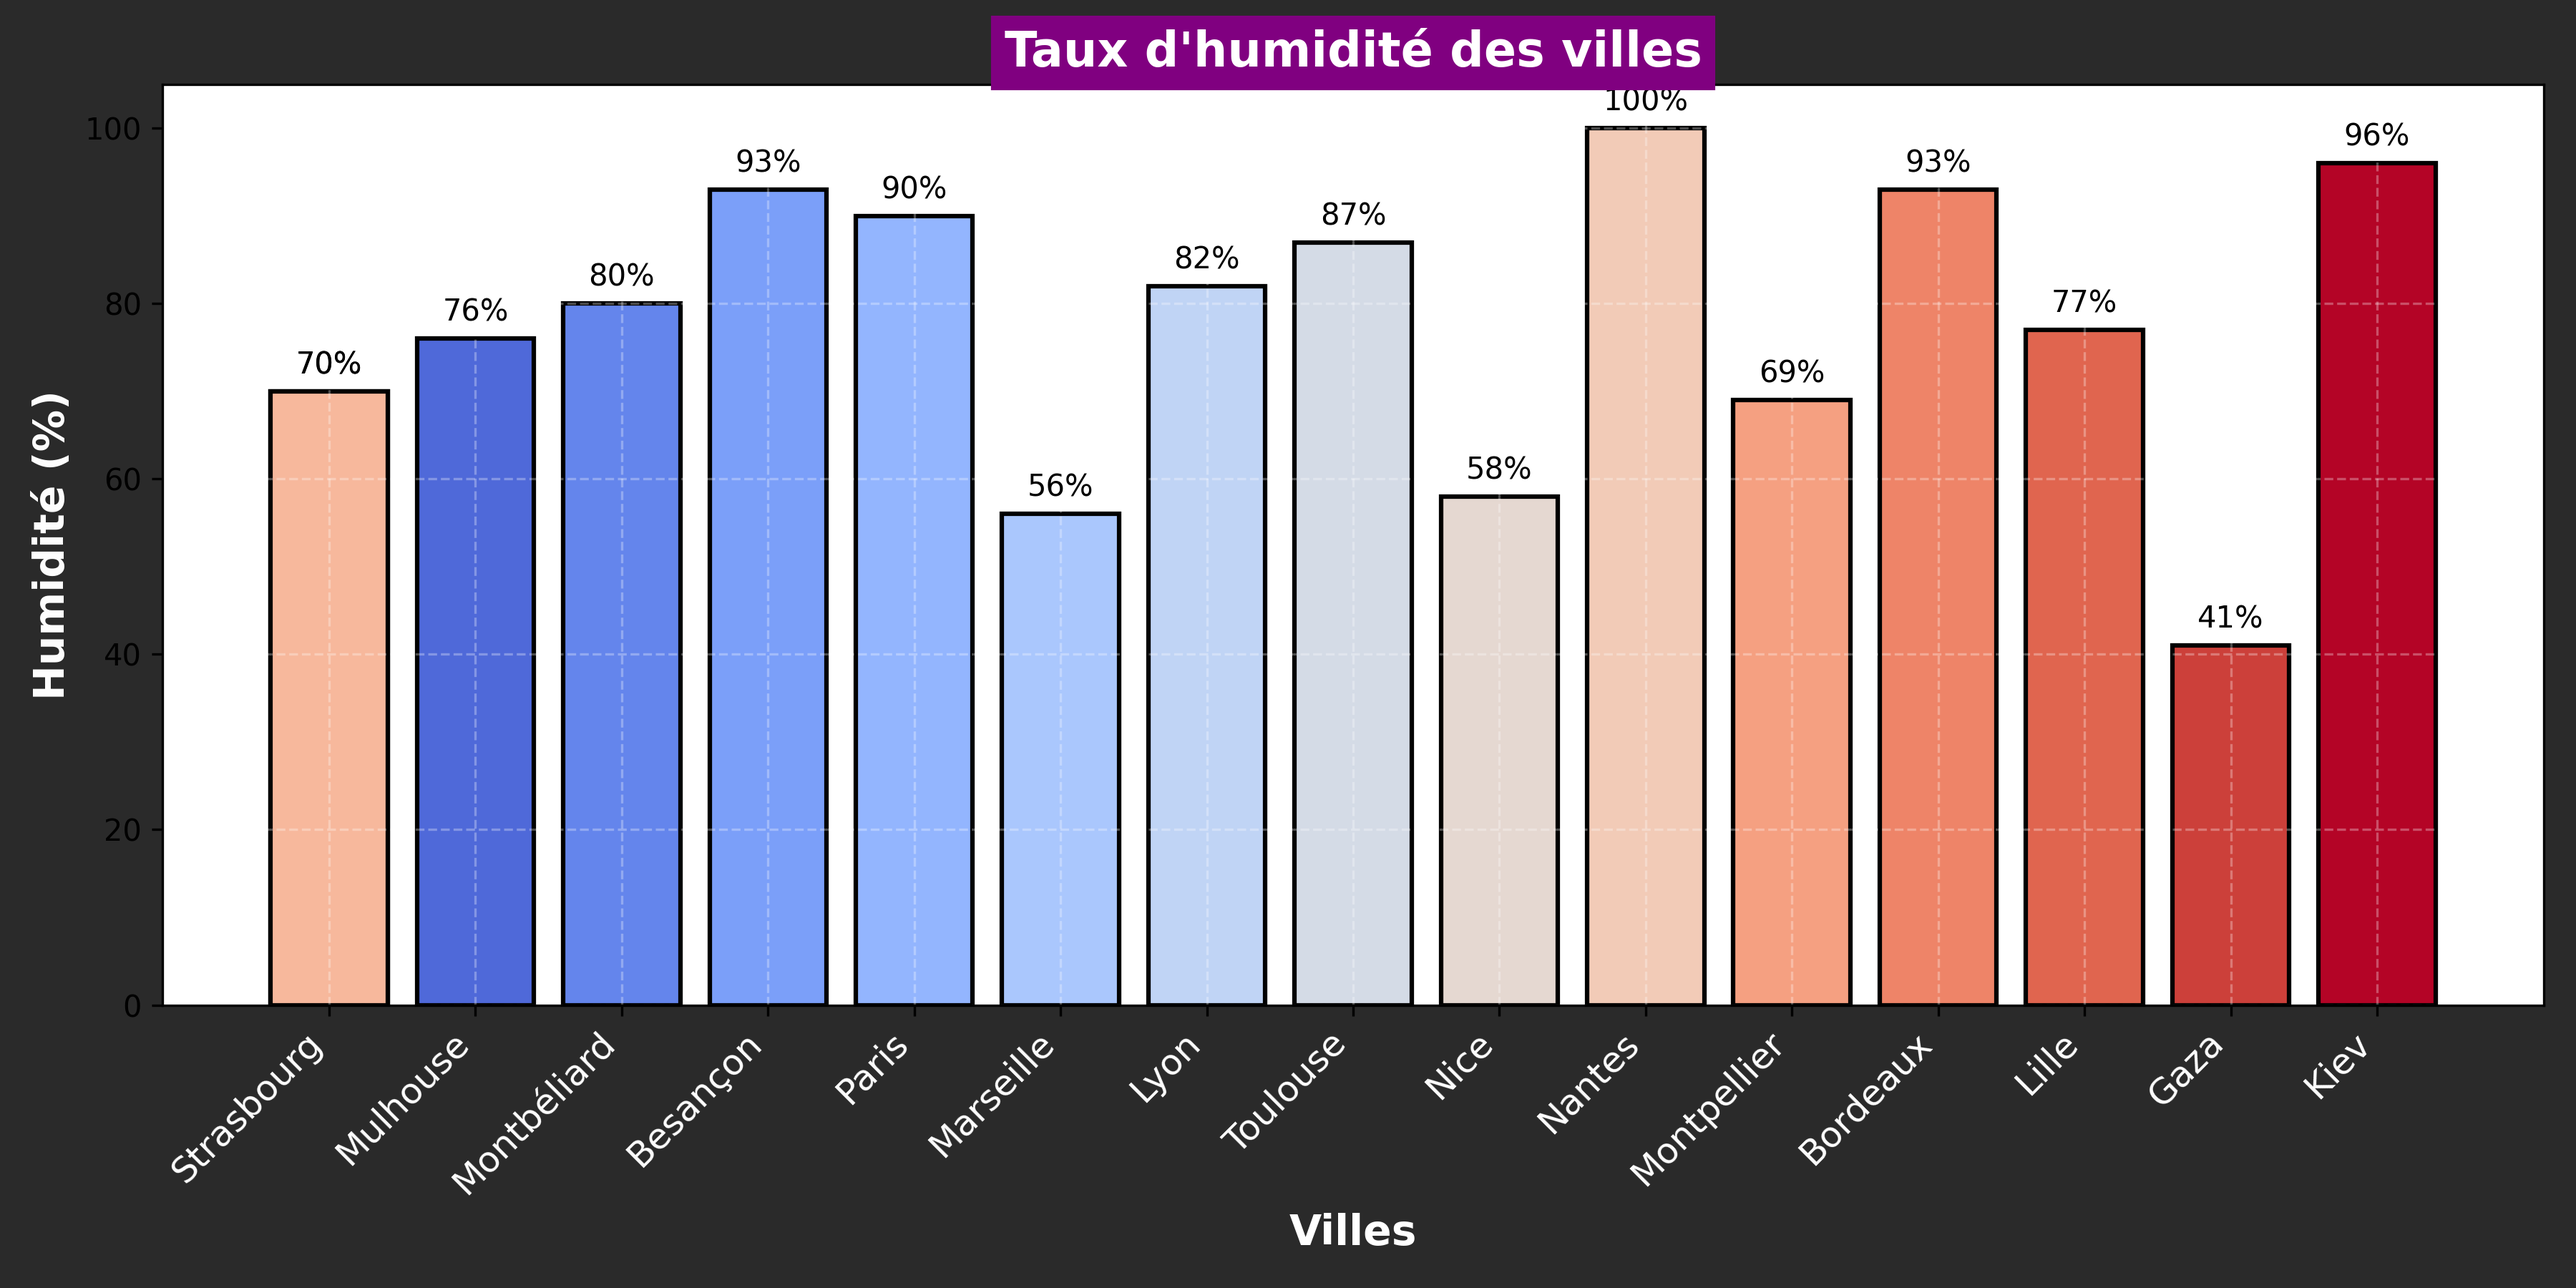
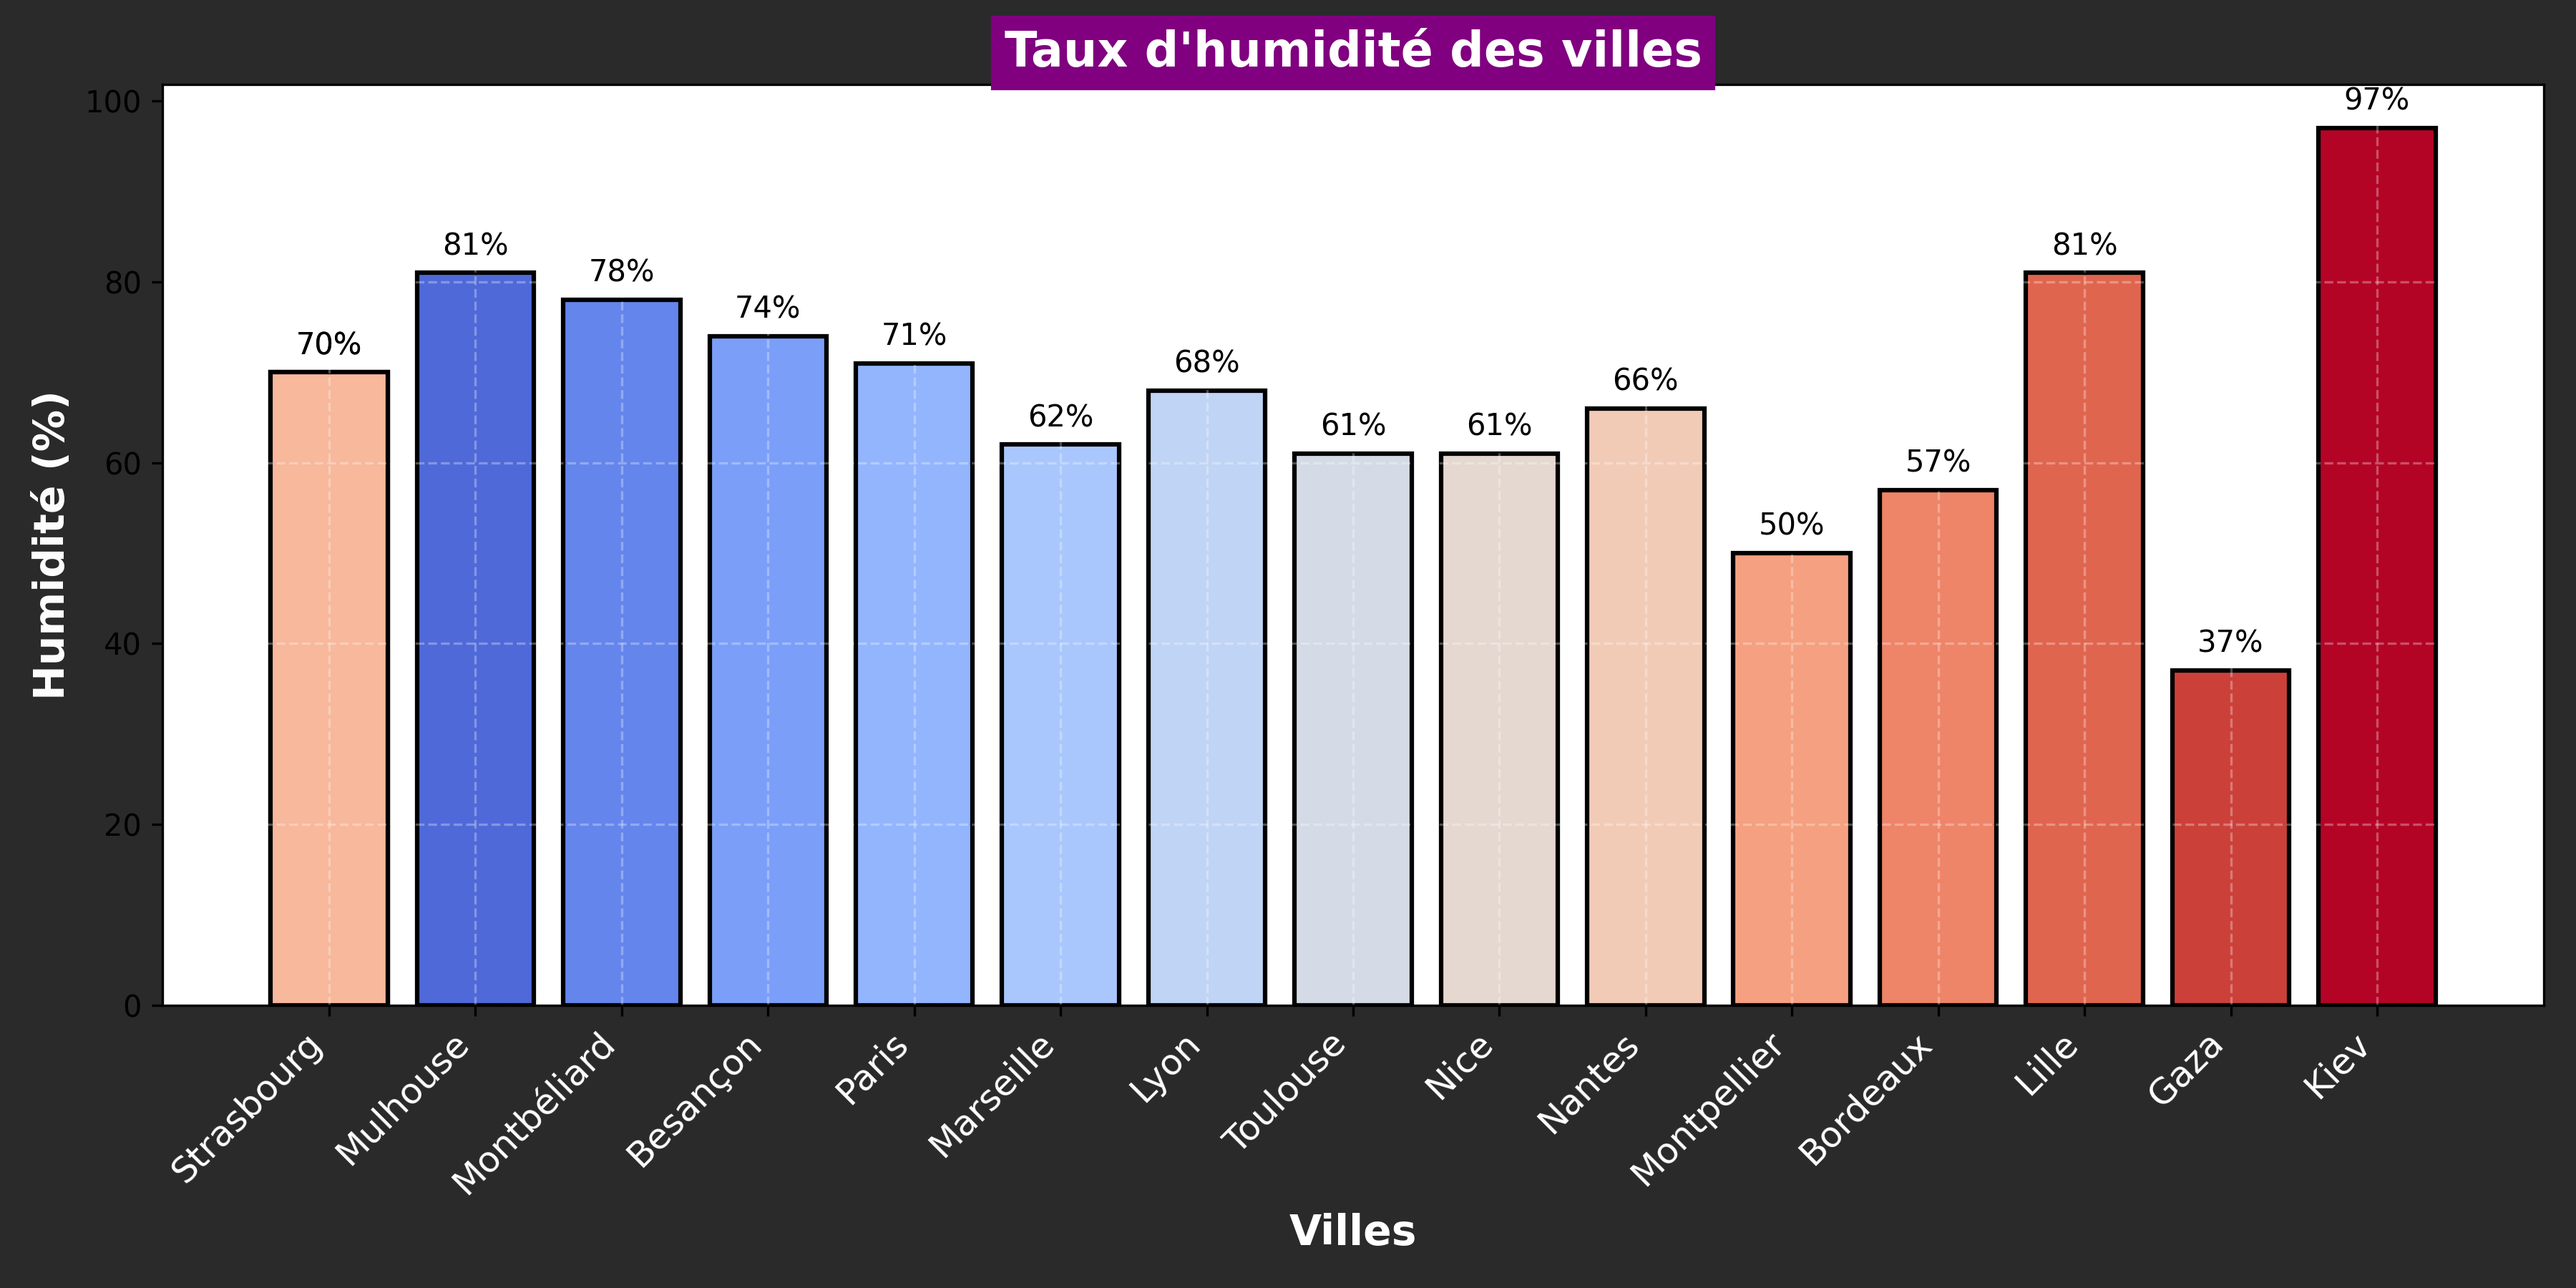
Mise à jour de la météo et ajout du graphique d'humidité

diff --git a/README.md b/README.md
@@ -24,102 +24,102 @@ Ce repo contient plusieurs workflows GitHub Actions :
 ## Météo actuelle :
 ## Météo des grandes villes + Gaza et Kiev 🌍
 
-🕒 Mise à jour : 31/03/2025 08:17:31
+🕒 Mise à jour : 01/04/2025 08:17:33
 
-### 🌍 Strasbourg 🌥
-**Conditions :** nuageux
-**Température :** 7.03°C
+### 🌍 Strasbourg ☀
+**Conditions :** ciel dégagé
+**Température :** 6°C
 **Humidité :** 70%
 **Vent :** 5.14 m/s
 
 ### 🌍 Mulhouse ☀
 **Conditions :** ciel dégagé
-**Température :** 7.03°C
-**Humidité :** 76%
-**Vent :** 3.6 m/s
+**Température :** 2.57°C
+**Humidité :** 81%
+**Vent :** 1.82 m/s
 
 ### 🌍 Montbéliard ☀
 **Conditions :** ciel dégagé
-**Température :** 6.8°C
-**Humidité :** 80%
-**Vent :** 1.24 m/s
+**Température :** 5.54°C
+**Humidité :** 78%
+**Vent :** 4.48 m/s
 
-### 🌍 Besançon 🌥
-**Conditions :** peu nuageux
-**Température :** 2.96°C
-**Humidité :** 93%
-**Vent :** 0.98 m/s
+### 🌍 Besançon ☀
+**Conditions :** ciel dégagé
+**Température :** 4.07°C
+**Humidité :** 74%
+**Vent :** 5.74 m/s
 
 ### 🌍 Paris ☀
 **Conditions :** ciel dégagé
-**Température :** 6.14°C
-**Humidité :** 90%
-**Vent :** 3.09 m/s
+**Température :** 6.52°C
+**Humidité :** 71%
+**Vent :** 5.66 m/s
 
 ### 🌍 Marseille ☀
 **Conditions :** ciel dégagé
-**Température :** 11.4°C
-**Humidité :** 56%
-**Vent :** 1.79 m/s
+**Température :** 7.51°C
+**Humidité :** 62%
+**Vent :** 2.33 m/s
 
-### 🌍 Lyon 🌥
-**Conditions :** nuageux
-**Température :** 6.6°C
-**Humidité :** 82%
-**Vent :** 1.34 m/s
+### 🌍 Lyon ☀
+**Conditions :** ciel dégagé
+**Température :** 2.89°C
+**Humidité :** 68%
+**Vent :** 1.09 m/s
 
 ### 🌍 Toulouse ☀
 **Conditions :** ciel dégagé
 **Température :** 6.99°C
-**Humidité :** 87%
-**Vent :** 1.03 m/s
-
-### 🌍 Nice ☀
-**Conditions :** ciel dégagé
-**Température :** 8.61°C
-**Humidité :** 58%
-**Vent :** 3.83 m/s
-
-### 🌍 Nantes 🌫
-**Conditions :** brouillard
-**Température :** 6.96°C
-**Humidité :** 100%
+**Humidité :** 61%
 **Vent :** 1.54 m/s
 
-### 🌍 Strasbourg 🌥
-**Conditions :** nuageux
-**Température :** 7.03°C
+### 🌍 Nice 🌥
+**Conditions :** légères chutes de neige
+**Température :** 0.28°C
+**Humidité :** 61%
+**Vent :** 0.9 m/s
+
+### 🌍 Nantes ☀
+**Conditions :** ciel dégagé
+**Température :** 7.96°C
+**Humidité :** 66%
+**Vent :** 3.6 m/s
+
+### 🌍 Strasbourg ☀
+**Conditions :** ciel dégagé
+**Température :** 6°C
 **Humidité :** 70%
 **Vent :** 5.14 m/s
 
 ### 🌍 Montpellier ☀
 **Conditions :** ciel dégagé
 **Température :** 10.28°C
-**Humidité :** 69%
-**Vent :** 4.63 m/s
+**Humidité :** 50%
+**Vent :** 5.66 m/s
 
-### 🌍 Bordeaux 🌥
-**Conditions :** couvert
-**Température :** 10.15°C
-**Humidité :** 93%
-**Vent :** 2.06 m/s
+### 🌍 Bordeaux ☀
+**Conditions :** ciel dégagé
+**Température :** 9.15°C
+**Humidité :** 57%
+**Vent :** 5.66 m/s
 
-### 🌍 Lille 🌥
-**Conditions :** couvert
-**Température :** 6.6°C
-**Humidité :** 77%
-**Vent :** 1.54 m/s
+### 🌍 Lille ☀
+**Conditions :** ciel dégagé
+**Température :** 3.74°C
+**Humidité :** 81%
+**Vent :** 4.12 m/s
 
 ### 🌍 Gaza 🌥
-**Conditions :** peu nuageux
-**Température :** 21.03°C
-**Humidité :** 41%
-**Vent :** 7.02 m/s
+**Conditions :** nuageux
+**Température :** 25.52°C
+**Humidité :** 37%
+**Vent :** 5.34 m/s
 
 ### 🌍 Kiev 🌥
 **Conditions :** couvert
-**Température :** 9.29°C
-**Humidité :** 96%
+**Température :** 9.84°C
+**Humidité :** 97%
 **Vent :** 0.45 m/s
 
 <p align='center'><img src='https://raw.githubusercontent.com/khoa083/khoa/main/Khoa_ne/img/Rainbow.gif' width='100%' style='border-radius: 5px; border: 3px solid #39FF14; box-shadow: 0 0 10px #39FF14, 0 0 20px #39FF14;' /></p>
